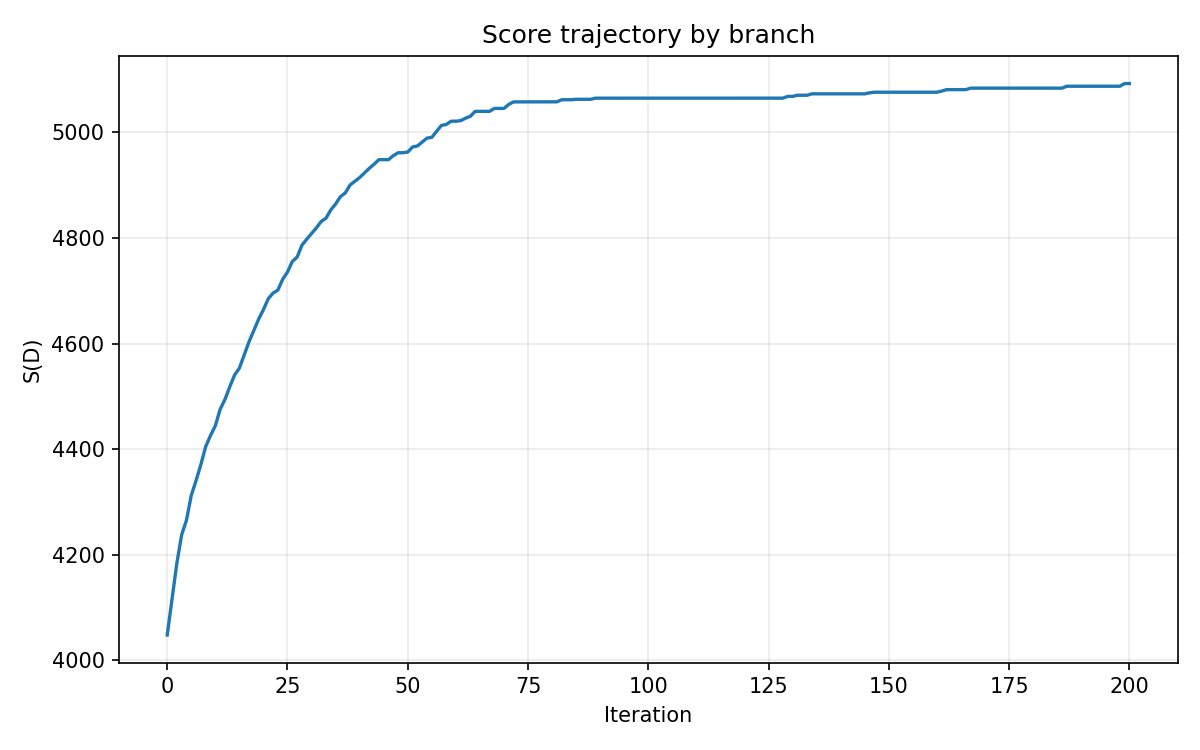
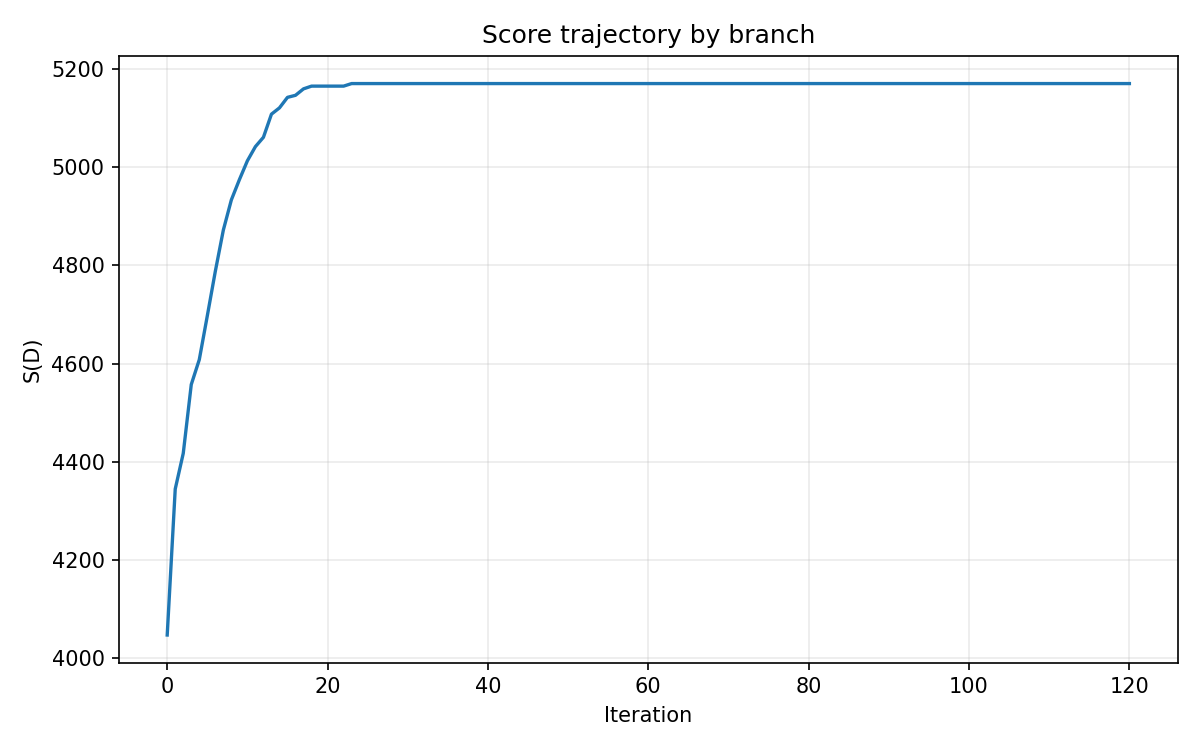
xxx

diff --git a/calculate_my_mask.py b/calculate_my_mask.py
@@ -283,14 +283,14 @@ def select_group_mask(
 
     def _dynamic_parameter_adjustment(cr: int) -> tuple[float, float]:
         if cr <= 30:
-            return 5, 5
+            return 3, 4
         if cr <= 60:
-            return 3, 3
+            return 2, 2
         return 1, 1
 
     mutation_scale, local_search_scale = _dynamic_parameter_adjustment(cut_ratio)
     mutation_ratio = 0.008 * mutation_scale
-    local_search_ratio = 0.01 * local_search_scale
+    local_search_ratio = 0.015 * local_search_scale
     k_mut_base = max(1, int(mutation_ratio * target_size))
     k_ls_base = max(1, int(local_search_ratio * target_size))
 
